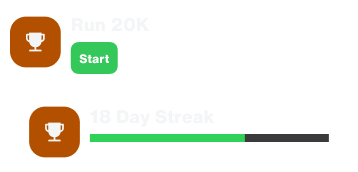
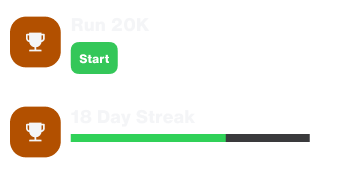
Finished dashboard

Changed region(s): [[0.0307, 0.6105, 0.2765, 0.9302], [0.6145, 0.7558, 0.7067, 0.843], [0.8603, 0.7558, 0.9218, 0.843]]

diff --git a/RunOut/Pages/Dashboard.razor.css b/RunOut/Pages/Dashboard.razor.css
@@ -47,6 +47,14 @@
 }
 
 .info-section {
+    position: absolute;
+    width: 249px;
+    height: 168px;
+    left: 126px;
+
+    border-radius: 16px;
+    background-color: #1C1C1E;
+    padding: 16px;
     display: flex;
     flex-direction: column;
     justify-content: center;
@@ -56,6 +64,10 @@
         font-size: 24px;
         font-weight: 900;
         color: #30D158;
+    }
+    .info-section > p {
+
+        color: white;
     }
 
     .info-section > ul {
@@ -74,16 +86,19 @@
     font-weight: 900;
     
 }
-
+.calendarCardContainer {
+    width: 298px;
+    justify-content: center;
+}
 .week-workout {
     flex: 1;
     display: flex;
     flex-direction: column;
-    justify-content: center;
+    align-self: center;
 }
 
     .week-workout > p {
-        font-size: 12px;
+
         color: #D9DBE1;
     }
 
